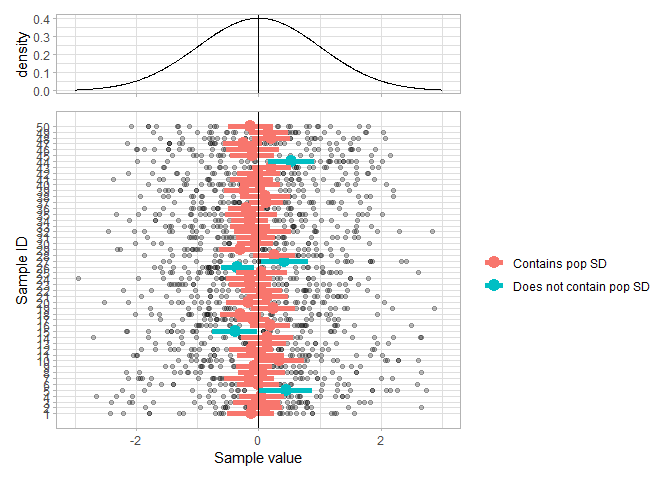
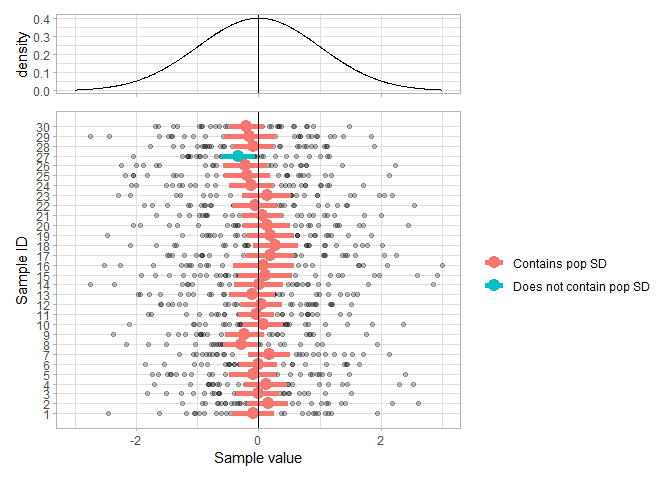
add write up for mean_ci sims

Changed region(s): [[0.0312, 0.25, 0.6875, 0.875]]

diff --git a/mean_ci/README.md b/mean_ci/README.md
@@ -1,8 +1,20 @@
+### Simulation of computation of confidence interval of the mean
+
+Often we have a population and we want to know the average of some
+variable (e.g., height) in that population. Because we can’t measure the
+population in it’s entirety, we sample some of the population and use
+the average of that sample as a window to the larger population. The
+confidence interval of the mean provides a range of possible values for
+the population mean. For 95% confidence interval, 95% of sampled
+intervals would contain the true population mean.
+
+The simulation code demonstrates this though monte carlo simulation:
+
 ``` r
 library(tidyverse)
 library(patchwork)
 
-n_samples <- 50
+n_samples <- 30
 n <- 30
 
 pop_mean <- 0
